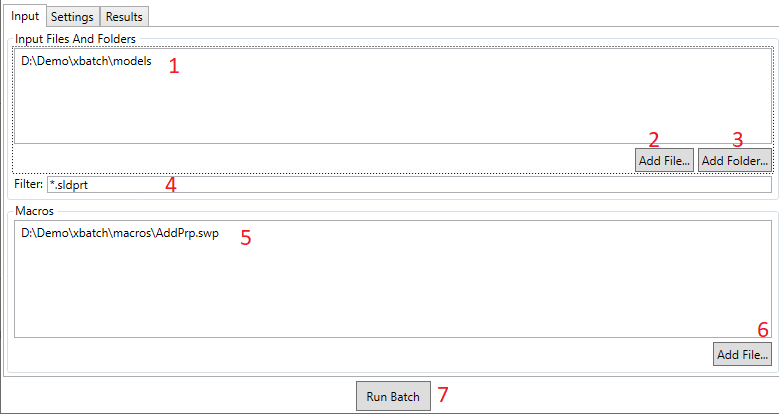
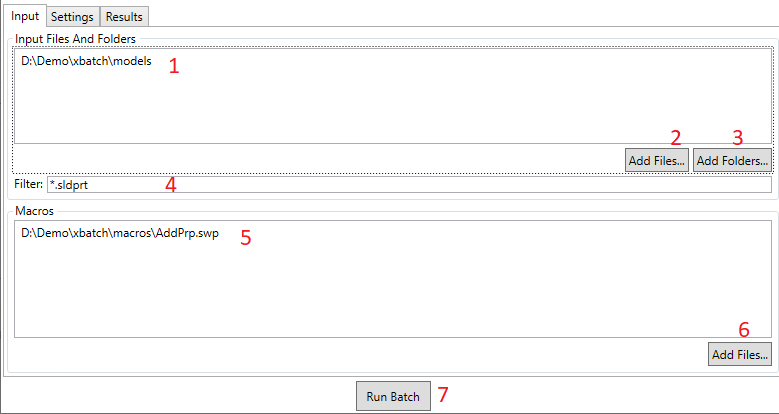
Removed C# option from the code resolver
Completed documentation

diff --git a/docs/_assets/styles/theme.css b/docs/_assets/styles/theme.css
@@ -6,10 +6,8 @@
     line-height: 1.5;
 }
 
-.header-title {
-    color: rgb(110, 50, 110);
-    font-size: 22px;
-    font-weight: bold;
+.header {
+    background-color: transparent !important;
 }
 
 pre.code-snippet {
@@ -21,7 +19,7 @@ a.download-button {
     text-decoration : none;
     border: none;
     color: white;
-    padding: 12px 30px;
+    padding: 5px 30px;
     cursor: pointer;
     font-size: 20px;
   }

diff --git a/src/CustomToolbar/Services/VbNetStateResolveCompiler.cs b/src/CustomToolbar/Services/VbNetStateResolveCompiler.cs
@@ -26,11 +26,12 @@ namespace Xarial.CadPlus.CustomToolbar.Services
                 => VisualBasicCompilation.Create(dllName, code, refs, (VisualBasicCompilationOptions)opts);
 
             protected override CompilationOptions CreateCompilationOptions()
-                => new VisualBasicCompilationOptions(OutputKind.DynamicallyLinkedLibrary);
+                => new VisualBasicCompilationOptions(OutputKind.DynamicallyLinkedLibrary)
+                    .WithOptionStrict(OptionStrict.Off);
 
             protected override SyntaxTree CreateSyntaxTree(SourceText src)
-                => Microsoft.CodeAnalysis.VisualBasic.SyntaxFactory.ParseSyntaxTree(src,
-                    VisualBasicParseOptions.Default.WithLanguageVersion(Microsoft.CodeAnalysis.VisualBasic.LanguageVersion.VisualBasic16), "");
+                => SyntaxFactory.ParseSyntaxTree(src,
+                    VisualBasicParseOptions.Default.WithLanguageVersion(LanguageVersion.VisualBasic16), "");
 
             protected override IEnumerable<MetadataReference> GetReferences()
             {

diff --git a/src/CustomToolbar/Services/CommandsManager.cs b/src/CustomToolbar/Services/CommandsManager.cs
@@ -155,9 +155,9 @@ namespace Xarial.CadPlus.CustomToolbar.Services
                 IStateResolveCompiler compiler = null;
                 switch (grp.Key)
                 {
-                    case ToggleButtonStateCode_e.CSharp:
-                        compiler = new CSharpStateResolveCompiler(Settings.Default.ToggleButtonResolverCSharp, m_App);
-                        break;
+                    //case ToggleButtonStateCode_e.CSharp:
+                    //    compiler = new CSharpStateResolveCompiler(Settings.Default.ToggleButtonResolverCSharp, m_App);
+                    //    break;
                     case ToggleButtonStateCode_e.VBNET:
                         compiler = new VbNetStateResolveCompiler(Settings.Default.ToggleButtonResolverVBNET, m_App);
                         break;

diff --git a/src/CustomToolbar/Services/RoslynStateResolveCompiler.cs b/src/CustomToolbar/Services/RoslynStateResolveCompiler.cs
@@ -50,11 +50,12 @@ namespace Xarial.CadPlus.CustomToolbar.Services
                 var refs = new List<MetadataReference>(GetReferences());
                 refs.AddRange(new[]
                 {
+                    MetadataReference.CreateFromFile(typeof(Debug).Assembly.Location),
                     MetadataReference.CreateFromFile(typeof(AppDomain).Assembly.Location),
                     MetadataReference.CreateFromFile(typeof(IToggleButtonStateResolver).Assembly.Location),
                     MetadataReference.CreateFromFile(typeof(IXApplication).Assembly.Location)
                 });
-
+                
                 var syntaxTrees = new List<SyntaxTree>();
                 var classToMacroMap = new Dictionary<string, CommandMacroInfo>();
 

diff --git a/src/CustomToolbar/Services/CSharpStateResolveCompiler.cs b/src/CustomToolbar/Services/CSharpStateResolveCompiler.cs
@@ -28,8 +28,8 @@ namespace Xarial.CadPlus.CustomToolbar.Services
                 => new CSharpCompilationOptions(OutputKind.DynamicallyLinkedLibrary);
 
             protected override SyntaxTree CreateSyntaxTree(SourceText src)
-                => Microsoft.CodeAnalysis.CSharp.SyntaxFactory.ParseSyntaxTree(src,
-                    CSharpParseOptions.Default.WithLanguageVersion(Microsoft.CodeAnalysis.CSharp.LanguageVersion.CSharp6), "");
+                => SyntaxFactory.ParseSyntaxTree(src,
+                    CSharpParseOptions.Default.WithLanguageVersion(LanguageVersion.CSharp7_3), "");
 
             protected override IEnumerable<MetadataReference> GetReferences()
             {

diff --git a/src/CustomToolbar/Enums/ToggleButtonStateCode_e.cs b/src/CustomToolbar/Enums/ToggleButtonStateCode_e.cs
@@ -18,8 +18,8 @@ namespace Xarial.CadPlus.CustomToolbar.Enums
     {
         None,
 
-        [Title("C#")]
-        CSharp,
+        //[Title("C#")]
+        //CSharp,
 
         [Title("VB.NET")]
         VBNET

diff --git a/docs/custom-toolbar/configuration/toggles/index.md b/docs/custom-toolbar/configuration/toggles/index.md
@@ -1,0 +1,95 @@
+---
+title: Configuring toggles in Custom Toolbar
+caption: Toggles
+description: Setting up the checked/unchecked toggle button in Custom Toolbar for SOLIDWORKS
+labels: [configure,toggle]
+order: 2
+image: togle-button.gif
+---
+![Toggle button in SOLIDWORKS toolbar](togle-button.gif)
+
+Toggle behavior can be assigned to the button and menu command allowing to switch between checked/unchecked state of the button.
+
+In order to activate toggle behavior select **Toggle Button** option from the triggers drop-down.
+
+> Note, the same macro will be run regardless of toggle button is checked or unchecked. The current state needs to be determined in the macro itself to run the appropriate portion of the code.
+
+## Configuration
+
+Once **Toggle Button** option is selected in the triggers, the following options can be configured.
+
+![Settings of the toggle button](toggle-button-settings.png)
+
+1. Toggle Button Status Code Type - type of resolving the state of the button
+    * None - there is no custom logic of state. Button is loaded as checked by default and state will be changed on every button click.
+    * VB.NET - allow to specify custom VB.NET code which resolves the state of the button in a given moment
+1. Toggle button state resolve code. Code which calculates the current state of the button if VB.NET option is selected. This code will be executed every time to resolve the state of the button. 
+> Note, this code will be run every time state of SOLIDWORKS changes, e.g. mouse however, selection, rebuild, i.e. potentially thousands of times per session. So it is only recommended to use simple code to avoid performance issues or use the **Cache State Value** option
+
+3. Cache State Value - if this option is checked then the resolve code runs only once on start to resolve the initial state of the button (check/unchecked). After that toggle state will be switched on every click without calling the resolve code.
+
+### Custom Code Resolver
+
+When specifying the code to resolve the state, it is required to complete the construction of the function within the class which returns boolean, where *true* corresponds to checked state and *false* to unchecked.
+
+Function provides an access to top level application (IXApplication from [xCAD.NET framework](https://xcad.xarial.com/)). Use late binding to access underlying SOLIDWORKS API objects.
+
+~~~ vb
+Imports Xarial.CadPlus.CustomToolbar.Base
+Imports Xarial.XCad
+
+Namespace Xarial.CadPlus.CustomToolbar.Services.ToggleButton
+    Public Class ResolverClass
+        Implements IToggleButtonStateResolver
+
+        Public ReadOnly Property Application As IXApplication Implements IToggleButtonStateResolver.Application
+
+        Public Sub New(ByVal app As IXApplication)
+            Application = app
+        End Sub
+
+        Public Function Resolve() As Boolean Implements IToggleButtonStateResolver.Resolve
+            <Code from {Toggle button state resolve code}>
+        End Function
+    End Class
+End Namespace
+~~~
+
+#### Example
+
+This example demonstrates how to create toggle button which switches on and off the *Input dimension value* setting. Macro should correctly display the state of the button as checked and unchecked depending on the state of this user preference.
+
+![Input dimension value settings in SOLIDWORKS](input-dimension-value-setting.png)
+
+In order to find the current value of this setting it is required to call the [ISldWorks::GetUserPreferenceToggle](https://help.solidworks.com/2013/english/api/sldworksapi/solidworks.interop.sldworks~solidworks.interop.sldworks.isldworks~getuserpreferencetoggle.html) API and pass the value of **swInputDimValOnCreate**.
+
+As it is required to use late binding, corresponding integer value of the enumeration should be found:
+
+![swInputDimValOnCreate enumeration constant](swInputDimValOnCreate-enum.png)
+
+Adding the following code would result into the check state of the button to be synchronized with the toggle option:
+
+~~~ vb
+Return CType(Application, Object).Sw.GetUserPreferenceToggle(10)
+~~~
+
+![Custom state resolve code](vbnet-code.png)
+
+The macro code itself to toggle the state can be defined as follows
+
+~~~ vb
+Dim swApp As SldWorks.SldWorks
+
+Sub main()
+
+    Set swApp = Application.SldWorks
+    
+    Dim curVal As Boolean
+    curVal = False <> swApp.GetUserPreferenceToggle(swUserPreferenceToggle_e.swInputDimValOnCreate)
+    
+    swApp.SetUserPreferenceToggle swUserPreferenceToggle_e.swInputDimValOnCreate, Not curVal
+    
+End Sub
+~~~
+
+As the result the toggle button will always be synchronized with user preference setting and can be triggered via button or from settings dialog.

diff --git a/docs/custom-toolbar/configuration/index.md b/docs/custom-toolbar/configuration/index.md
@@ -29,12 +29,13 @@ Configure the parameters as shown below:
 1. Add new macro button in toolbar
 1. Title of the macro button. It displayed as a bold header in the tooltip when mouse hovers a button in SOLIDWORKS toolbar
 1. Description of the macro button. It displayed as a sub-header in the tooltip and in the SOLIDWORKS task bar in the bottom right corner when mouse hovers a button in SOLIDWORKS toolbar
-1. Icon of the macro button. Optimal size is between 16x16 and 120x120 in PNG format, however image will be automatically scaled and aligned which allows support for any size (including different width and height). Transparency is supported.
+1. Path to icon of the macro button. Optimal size is between 16x16 and 120x120 in PNG format, however image will be automatically scaled and aligned which allows support for any size (including different width and height). Transparency is supported.
 1. Full path to macro to run
 1. Macro entry point. This is the subroutine which should be run first when executing the macro. This is a parameterless subroutine (usually named main). Custom Toolbar will try to automatically find the best suitable subroutine
-1. Command location. Identifies where command should be added (menu, toolbar)
-1. Command scope. Identifies the scope (part, assembly, drawing, no documents) where macro can be run. Macro will be disabled in the not selected environments
 1. Triggers. Macro trigger options. Follow [triggers](triggers) article for more information
+1. Command scope. Identifies the scope (part, assembly, drawing, no documents) where macro can be run. Macro will be disabled in the not selected environments
+1. Command location. Identifies where command should be added (menu, toolbar). This option is only available for **Button** and **Toggle Button** triggers
+1. Toggle Button State Code group - options for handling the state of toggle button if **Toggle Button** trigger is specified. Follow [Toggles](toggles/) article for more information.
 1. Unload After Run. If option is checked macro will be automatically unloaded after run. This option is useful when macro is [shared](../multi-user/) across different users. In this case macro wil lbe released immediately enabling the possibility to replace the macro with new version. This option cannot be used if macro displays User Form as in this case it will be immediately unloaded and form will be closed. Untick this option if macro uses User Form or any other popup Window.
 
 ### Configuring Toolbar

diff --git a/docs/xbatch/user-interface/index.md b/docs/xbatch/user-interface/index.md
@@ -15,7 +15,7 @@ User Interface provides a visual way to configure the batch process. There are 3
 
 ![Input tab](input-tab.png)
 
-1. Input files and folders scope. Use *Add File...* (2) and *Add Folder...* (3) buttons to add new files and folders. Press *del* button on keyboard to remove the selected files or folders from the list.
+1. Input files and folders scope. Use *Add Files...* (2) and *Add Folders...* (3) buttons to add new files and folders. Press *del* button on keyboard to remove the selected files or folders from the list. Alternatively drag-n-drop files and folders directly to the list.
 1. Browsing the file to add to the exporting process.
 1. Browsing the folder to add to the exporting process
 1. Filter for files when processing folder. You can use a * wildcard, e.g. \*.sld\* will filter all SOLIDWORKS files (.sldprt, .slddrw and .sldasm) and exclude all other files types.
@@ -34,6 +34,12 @@ User Interface provides a visual way to configure the batch process. There are 3
     * Safe - runs SOLIDWORKS in safe mode bypassing options
     * Silent - runs SOLIDWORKS and with disabled popup messages and splash screen
     * Background - runs SOLIDWORKS in background. This option only available for SOLIDWORKS Professional or higher
+1. SOLIDWORKS files open options
+    * Silent - suppresses all popup dialogs, such as missing references when opening file
+    * Read Only - open files in read-only mode ensuring it cannot be overwritten
+    * Rapid - open files in a rapid mode:
+        * For drawings - opens in detailing mode. Some of the APIs might not be available in this mode
+        * For parts and assemblies - currently not supported and will be ignored
 
 ## Results
 

diff --git a/docs/index.md b/docs/index.md
@@ -5,8 +5,6 @@ title: CAD+ Toolset (Beta) | Utilities for SOLIDWORKS automation
 description: SOLIDWORKS utilities for improving your productivity in SOLIDWORKS. Automate properties, geometry, export and much more
 image: /logo.svg
 ---
-[Request FREE Community Edition](https://form.jotform.com/201120474719045){ target="_blank" class="download-button" }
-
 ![CAD+ Toolset](/logo.svg){ width=200 }
 
 **CAD+ Toolset (Beta)** application complements functionality of SOLIDWORKS by enabling additional toolsets. Application allows to automate various areas of SOLIDWORKS application. This includes but not limited to custom properties automation, geometry features, custom toolbars, export and import capabilities etc.
@@ -36,7 +34,7 @@ Please see the table below for the list of features and their availability in th
 
 When starting the application for the first time the following message will be displayed.
 
-![Unregistered version of CAD+ Toolset](unregistered-product.png)
+![Unregistered version of CAD+ Toolset](unregistered-product.png){ width=500 }
 
 You can continue to use unregistered version, but we encourage you to register your copy to suppress the popup message. Please find more information on [register](/register/) page
 
@@ -46,7 +44,7 @@ You can continue to use unregistered version, but we encourage you to register y
 
 Tools will automatically check for the available updates on the start. If new update is available the following modeless popup will be displayed. Popup will automatically close in 20 seconds unless closed prior.
 
-![Update available popup](updates-available.png)
+![Update available popup](updates-available.png){ width=500 }
 
 ## Feedback
 

diff --git a/docs/xbatch/command-line/index.md b/docs/xbatch/command-line/index.md
@@ -19,7 +19,8 @@ For example the below command will open all SOLIDWORKS part files from the *D:\D
 | -m  | --macros  |Yes   | List of macros to run: VBA macros (*.swp or *.swb) and VSTA macros (*.dll) are supported  |
 | -f  | --filter  | No  |  Filter to extract input files, if input parameter contains directories |
 | -e  |  --error | No  | If this option is used export will continue if any of the files or formats failed to process, otherwise the export will terminate  |
-| -t  |  --timeout | No  | Timeout in seconds for processing a single file (e.g. opening the file and running the macros)")]
-| -s  |  --startup | No  | Specifies the startup options (silent, background, safe) for the host application. Multiple option can be used
-| -v  |  --hostversion | No  | Version of SOLIDWORKS application. Use one of the following formats: 2020, Sw2020, SOLIDWORKS 2020. If this option is not specified than the oldest version installed on this system will be used.
+| -t  |  --timeout | No  | Timeout in seconds for processing a single file (e.g. opening the file and running the macros)")] |
+| -s  |  --startup | No  | Specifies the startup options (silent, background, safe) for the host application. Multiple option can be used |
+| -v  |  --hostversion | No  | Version of SOLIDWORKS application. Use one of the following formats: 2020, Sw2020, SOLIDWORKS 2020. If this option is not specified than the oldest version installed on this system will be used. |
+| -o  |  --open | No  | Specifies options (silent, readonly, rapid) for the file opening. Default: silent |
 

diff --git a/docs/xport/user-interface/index.md b/docs/xport/user-interface/index.md
@@ -14,9 +14,9 @@ User Interface provides a visual way to configure the export process. There are 
 
 ![xPort settings tab](xport-settings-tab.png)
 
-3. Input files and folders scope. Use *Add File...* (4) and *Add Folder...* (5) buttons to add new files and folders. Press *del* button on keyboard to remove the selected files or folders from the list.
-3. Browsing the file to add to the exporting process.
-3. Browsing the folder to add to the exporting process
+3. Input files and folders scope. Use *Add Files...* (4) and *Add Folders...* (5) buttons to add new files and folders. Press *del* button on keyboard to remove the selected files or folders from the list. Alternatively drag-n-drop files and folders directly to the list.
+3. Browsing the files to add to the exporting process.
+3. Browsing the folders to add to the exporting process
 3. Filter for files when processing folder. You can use a * wildcard, e.g. \*.sld\* will filter all SOLIDWORKS files (.sldprt, .slddrw and .sldasm) and exclude all other files types.
 3. List of formats to output. Multiple formats can be selected
 
